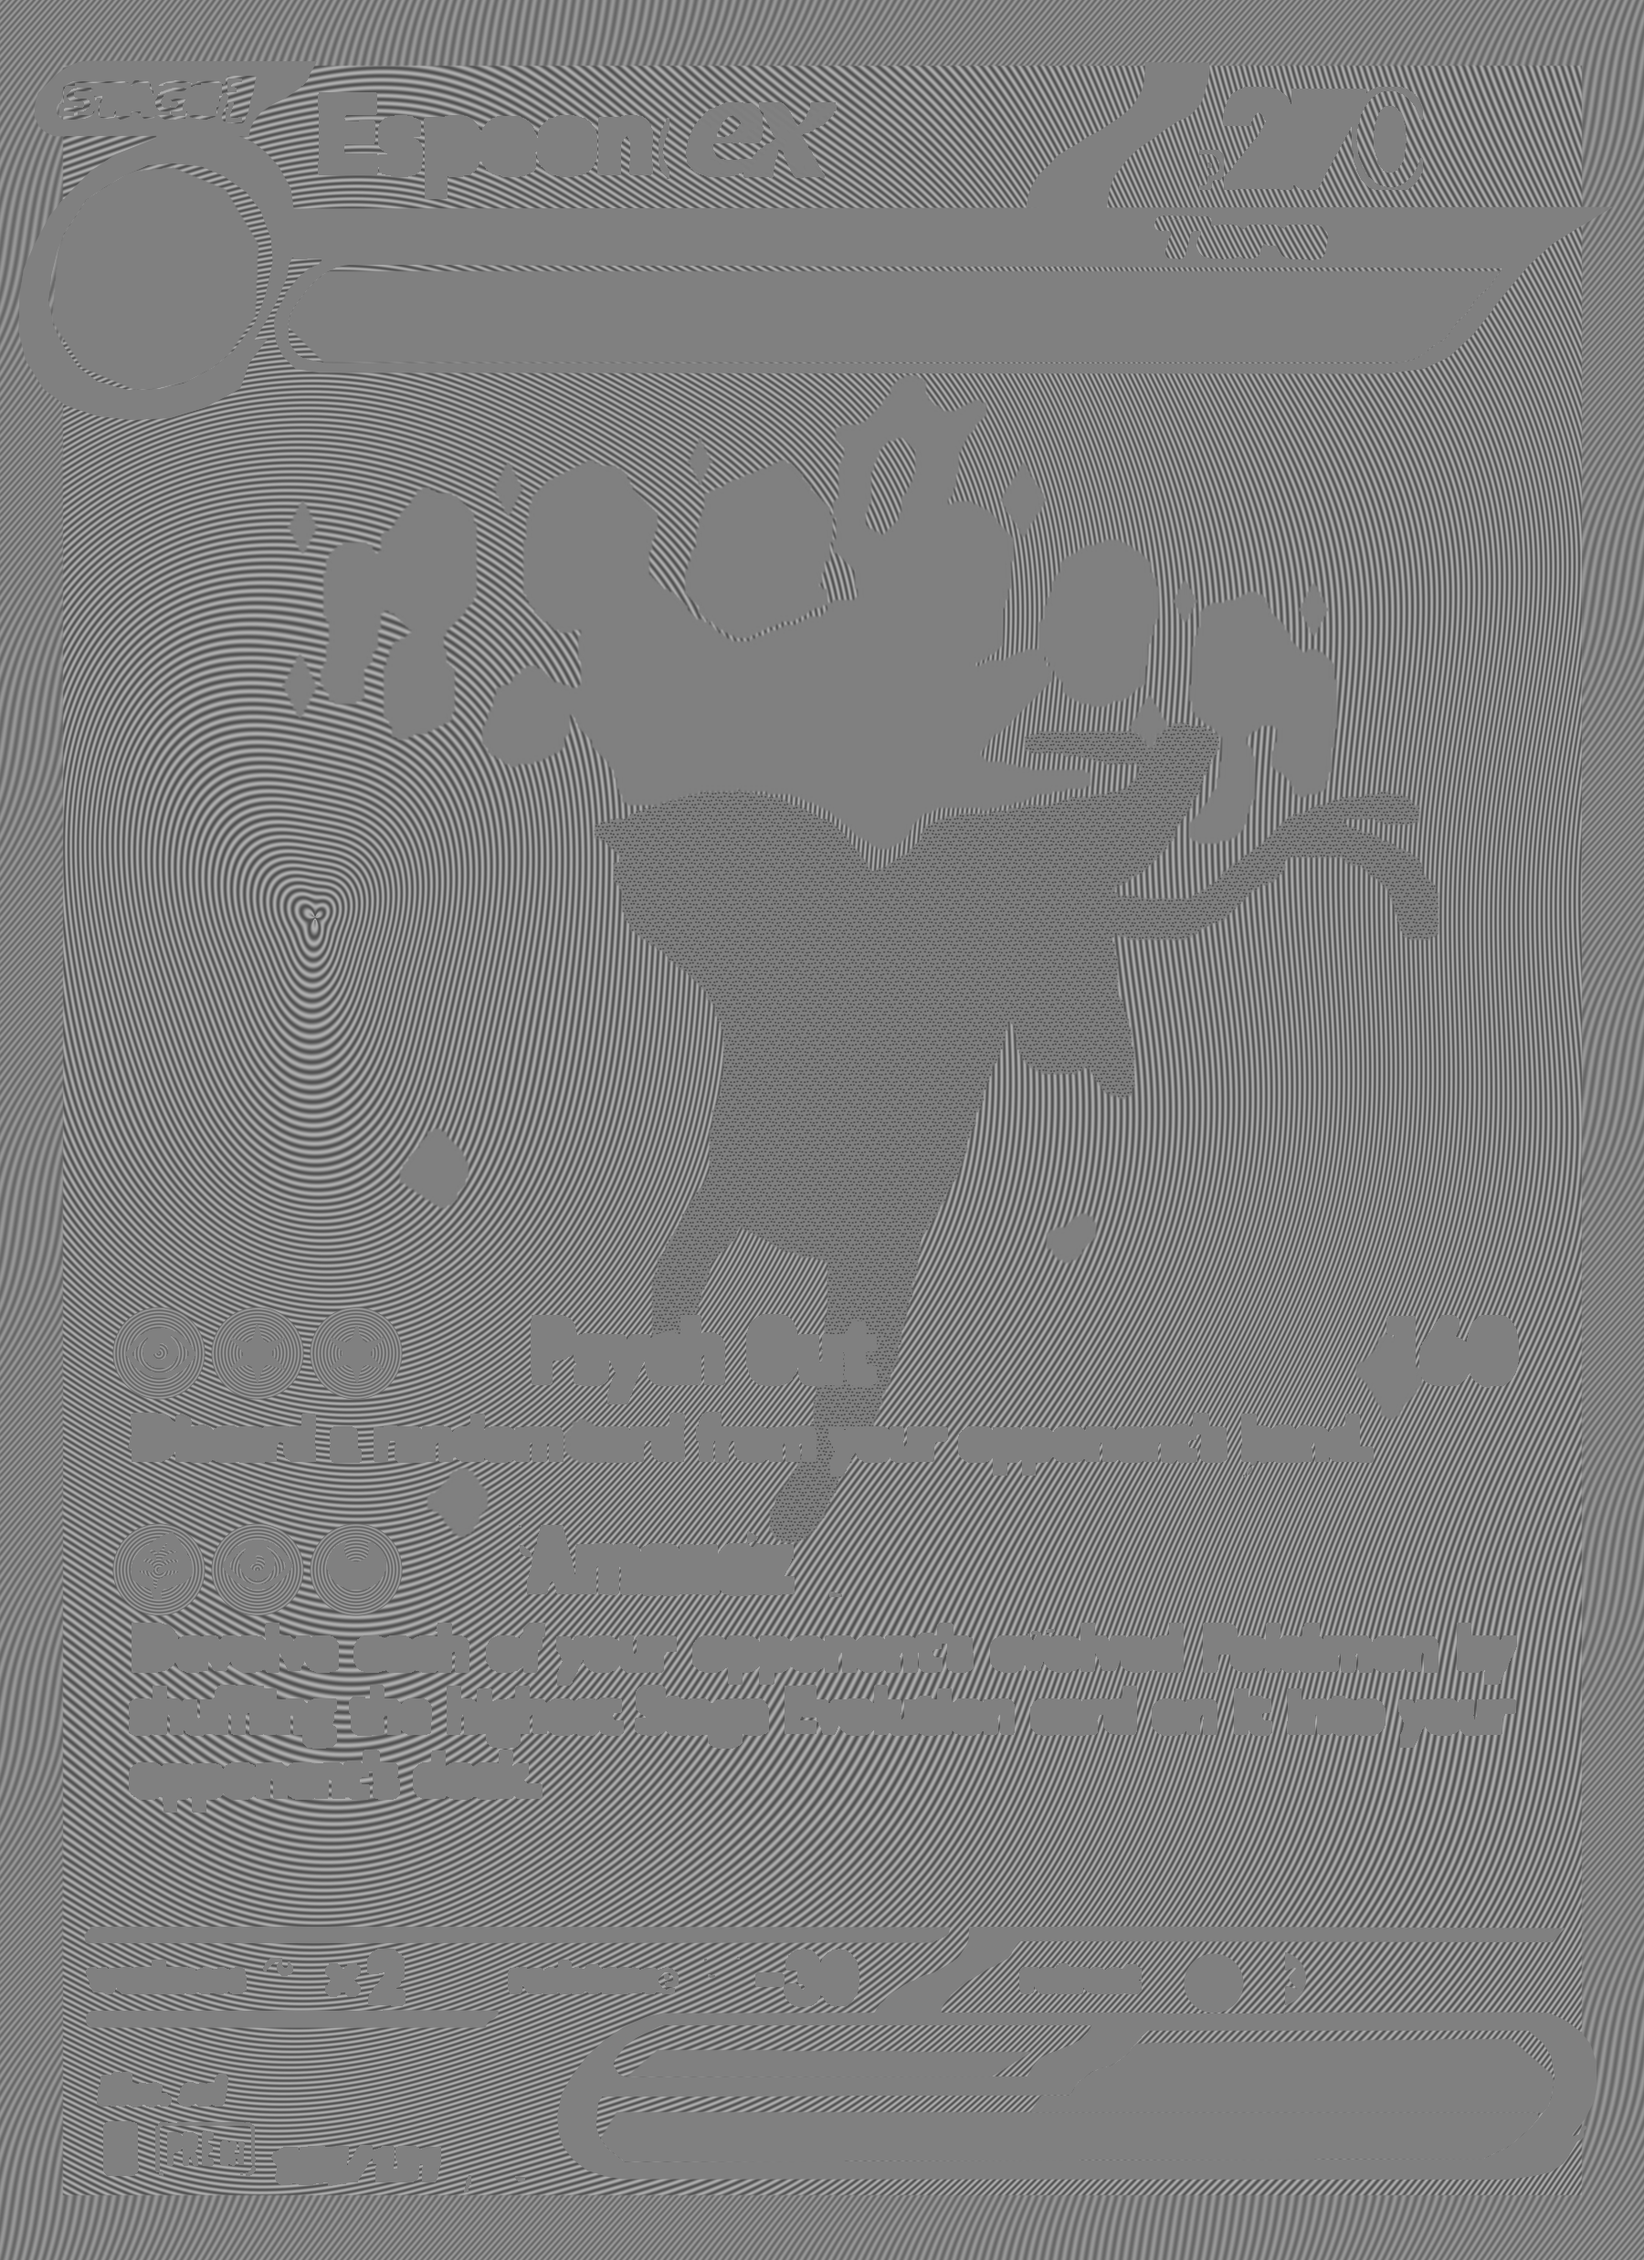
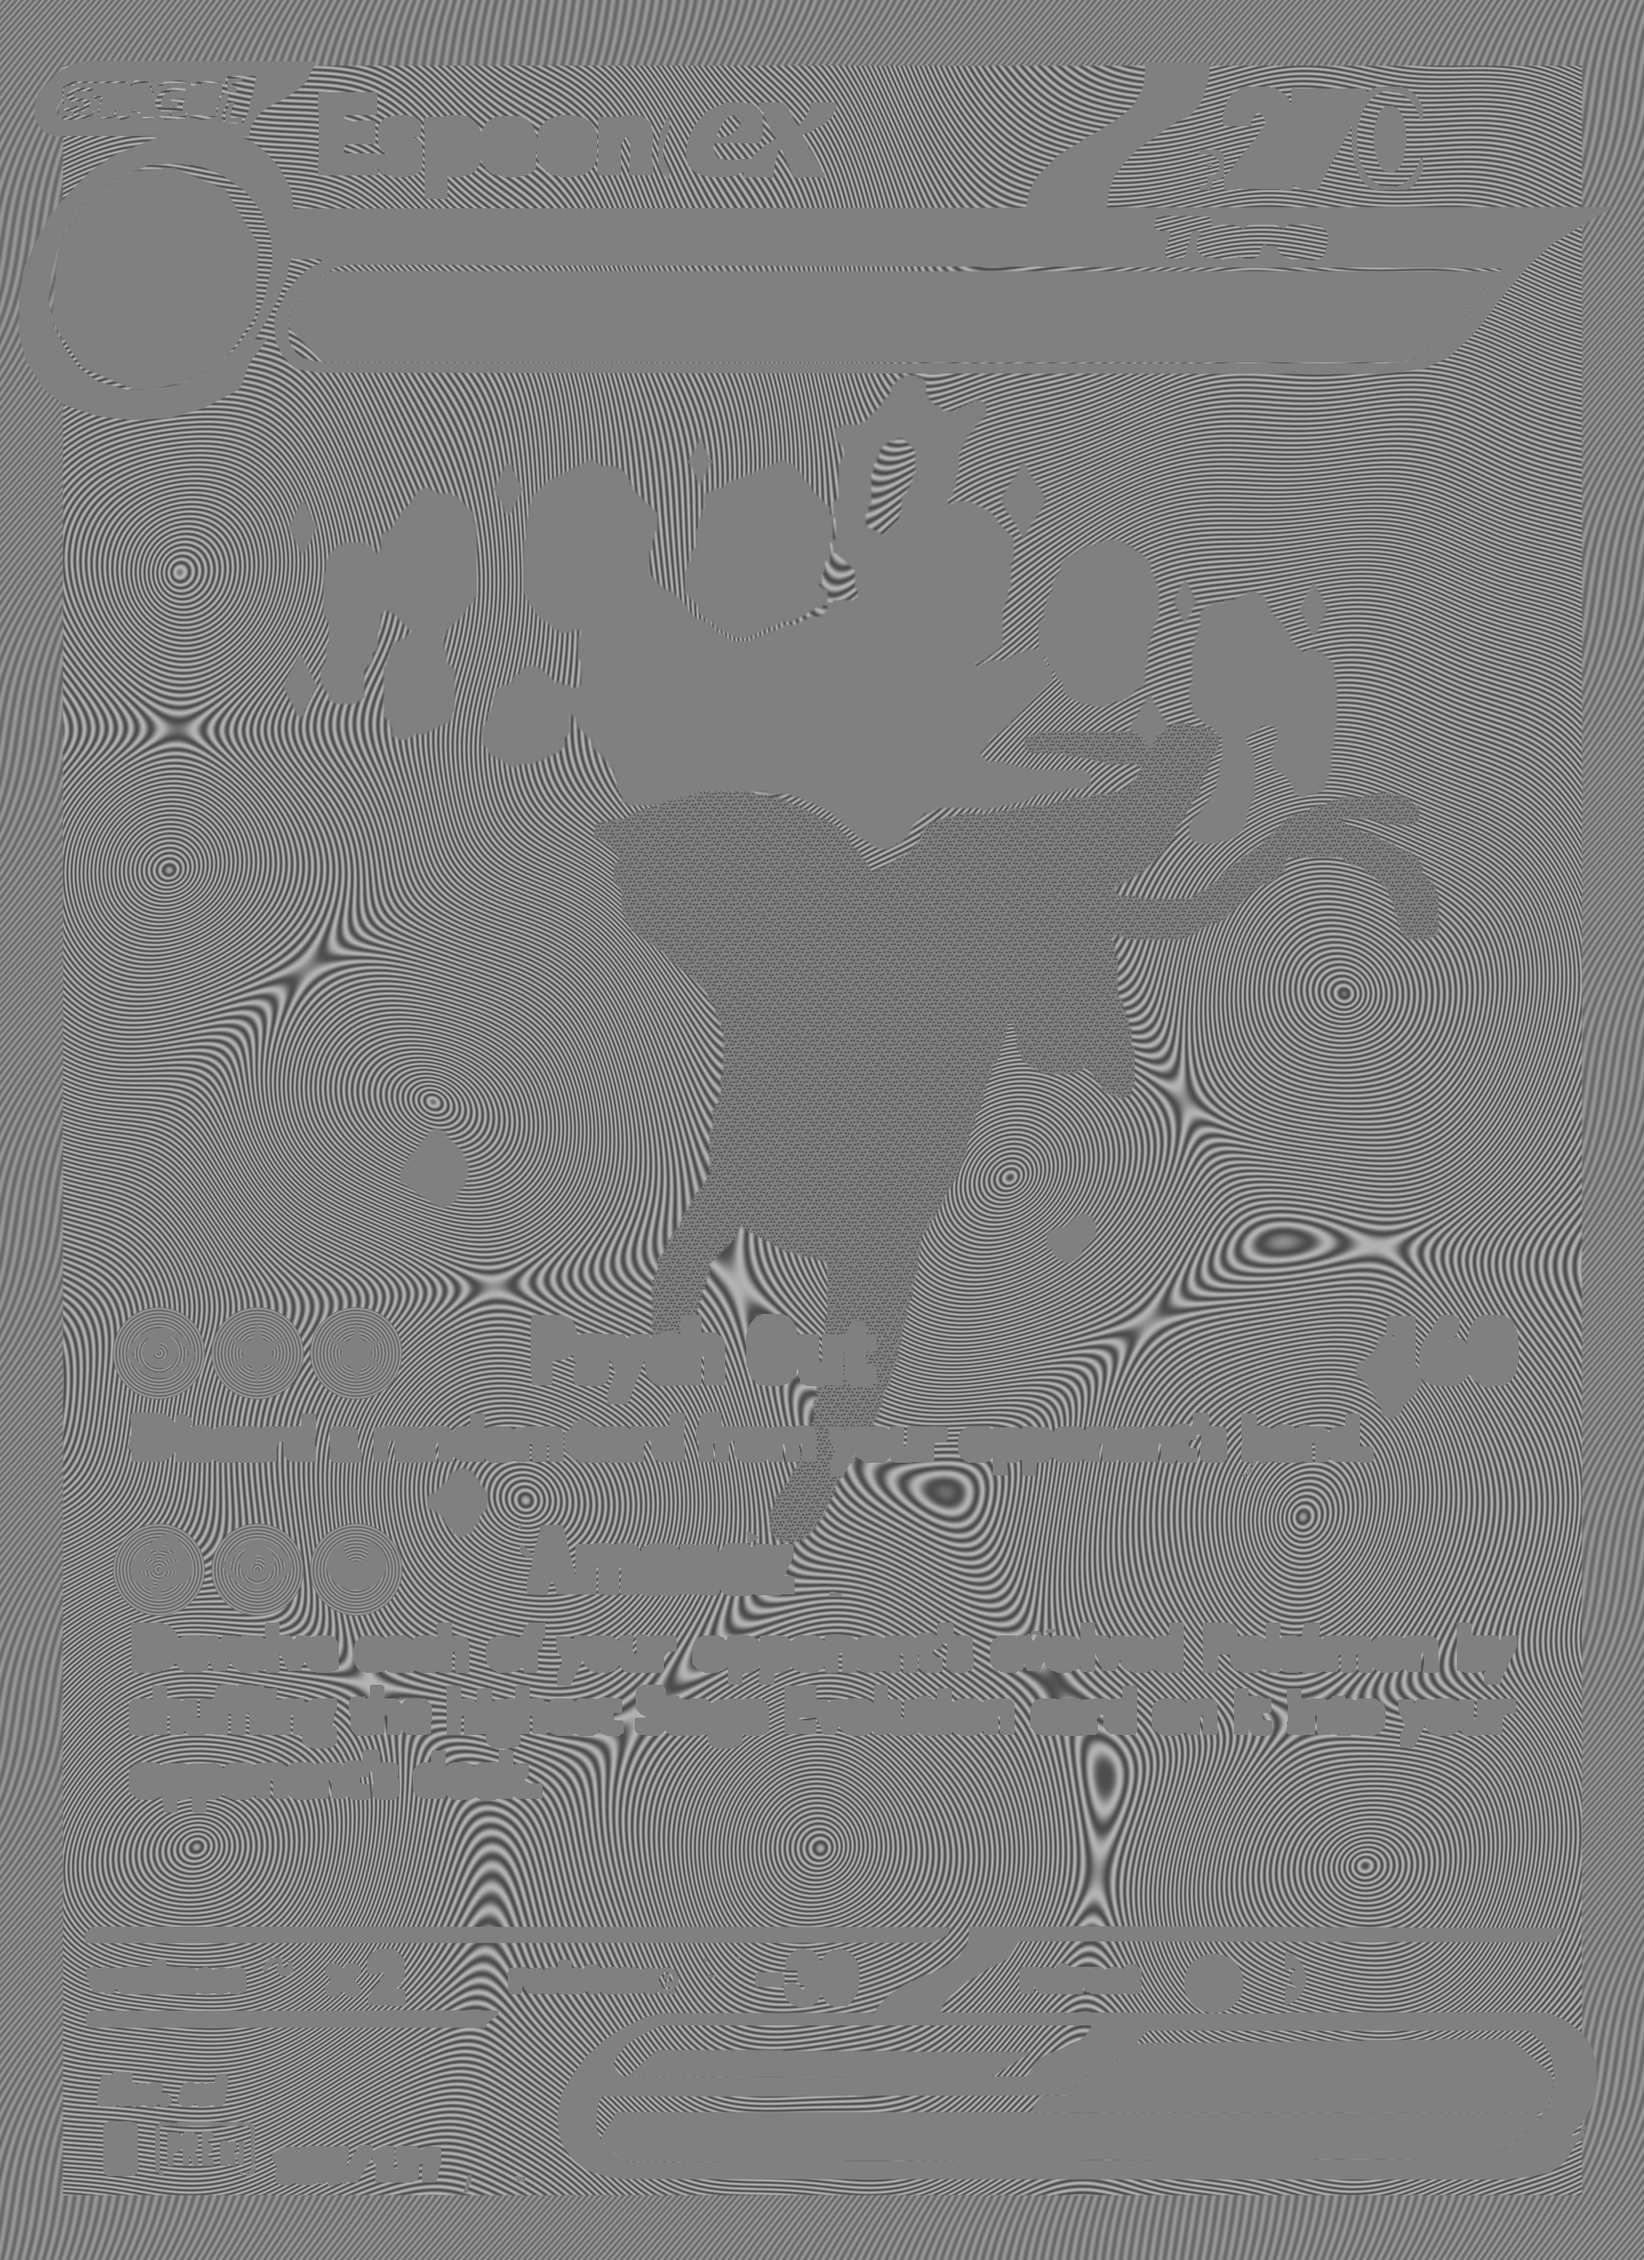
Refine Espeon flowing etching across the full background

diff --git a/scripts/prismatic/espeon_maps.py b/scripts/prismatic/espeon_maps.py
@@ -73,19 +73,28 @@ def build():
     smooth_micro=np.maximum(gems,silver)*(1-protection)*(1-energy)
     secondary=np.maximum(smooth_micro,right)*(1-energy)
     inner=poly([(23,24),(577,24),(577,801),(23,801)])
-    # The reference resolves sweeping nested curves through the left flowers
-    # and lower foliage. A continuous warped radial field models that flow;
-    # exact groove spacing and hidden continuation are estimates.
+    # Photo-guided local contour centers: upper-left flower, foliage beside
+    # the body, lower flowers and bottom-right stones. A smooth distance union
+    # lets contour families flow into saddles rather than overlapping grooves.
+    # Centers, pitch/depth and obscured continuation remain estimates.
     def slope(h):
         gy,gx=np.gradient(h,1/S,1/S); return gx,gy
-    dx=x-115; dy=(y-335)*.78
-    radius=np.sqrt(dx*dx+dy*dy+36)
-    angle=np.arctan2(dy,dx)
-    phase=radius+9*np.sin(angle*3)*np.minimum(radius/80,1)
-    phase+=8*np.sin(y*.025)+5*np.sin(x*.028+y*.011)
-    height=.95*np.sin(phase*2*np.pi/1.9)
+    fields=[]
+    for cx,cy,stretch,turn in [(65,209,.90,.25),(62,318,1.12,-.3),
+      (158,402,1.25,.5),(192,548,.95,-.2),(369,430,1.22,-.55),
+      (491,363,1.05,.4),(475,554,.90,.3),(498,681,1.12,-.3),
+      (300,675,.95,.5),(72,674,1.16,-.5)]:
+        dx=x-cx;dy=y-cy
+        u=dx*np.cos(turn)+dy*np.sin(turn)
+        v=(-dx*np.sin(turn)+dy*np.cos(turn))*stretch
+        fields.append(np.sqrt(u*u+v*v+9))
+    distances=np.stack(fields)
+    nearest=distances.min(0)
+    phase=nearest-13*np.log(np.exp(-(distances-nearest)/13).sum(0))
+    phase+=2.4*np.sin(.075*x+.022*y)+1.6*np.sin(.062*y-.018*x)
+    height=1.05*np.sin(phase*2*np.pi/1.75)
     gx,gy=slope(height)
-    gx*=1.35;gy*=1.35
+    gx*=1.5;gy*=1.5
     field_body=body_texture(x,y)*.50
     edge=.50*np.sin((.52*x+.31*y+7*np.sin(.035*y+.014*x))*2*np.pi/1.35)
     ex,ey=slope(edge); gx=gx*inner+ex*(1-inner); gy=gy*inner+ey*(1-inner)
@@ -120,8 +129,8 @@ def build():
         Image.fromarray(np.uint8(np.clip(overlay,0,1)*255)).resize((900,1238)).save(REVIEW/f'{name}-overlay.png')
     evidence=dict(cardId='sv08.5-155',variant='holo',status='photo-guided-reconstruction',rendererReady=True,textured=True,
       mapSize=[W,H],maps=hashes,references=[dict(file=p.name,sha256=hashlib.sha256(p.read_bytes()).hexdigest()) for p in sorted(REF.iterdir())],
-      referencePolicy='Exact-card etching-master.jpg guides curved floral relief and upper-right diamond coverage. User colored outlines define body and crystals. Supplied energy crops guide concentric icon relief. Clean front supplies registration only; shared silver mask is registered to title and retreat cost.',
-      reliefMethod='Single continuous curved background phase, differentiated before clipping; no superimposed crossing ridge fields. Body and crystal boundaries follow the supplied colored outline; six concentric attack-energy fields are centered on the print.',
+      referencePolicy='Exact-card etching-master.jpg guides curved floral relief and upper-right diamond coverage. User colored outlines define body and crystals. Concentric icon relief follows the established attack-energy treatment. Clean front supplies registration only; shared silver mask is registered to title and retreat cost.',
+      reliefMethod='Local photo-guided flowing contour families joined through a smooth distance field, differentiated before clipping; relief covers both sides of the body and lower-right field. Body and crystal boundaries follow the supplied colored outline; six concentric attack-energy fields are centered on the print.',
       limitations='Incision spacing, depth, hidden line continuation and optical constants are estimates from the supplied views. No brightness or random noise was converted to relief.')
     (OUT/'155-holo-evidence.json').write_text(json.dumps(evidence,indent=2)+'\n')
 

diff --git a/docs/espeon-155.md b/docs/espeon-155.md
@@ -4,6 +4,6 @@ The clean TCGdex front is retained unchanged. The supplied exact-card photo guid
 
 Run `python scripts/prismatic/espeon_cutouts.py`, then `python scripts/prismatic/espeon_maps.py`. All production masks and maps are PNG at 1800 x 2475. The body has a separate shallow dimple texture. Crown and gems use the separate microdiamond material; the forehead under their tips retains the body texture. Six attack-energy discs have concentric grooves with protected symbols.
 
-The continuous curved background field is differentiated before material clipping. It is a photo-guided reconstruction: pitch, depth, the upper-right field transition and hidden line continuation are estimates, not individually traced or measured ridges. No print brightness or photographic noise is converted to height. Reflection follows the authored normals with no extra emboss pass.
+The background now uses connected local contours through the upper-left flowers, both sides of Espeon, lower foliage and bottom-right stones. Smooth distance transitions join the local families without crossing separate groove layers. The continuous field is differentiated before material clipping. It is a photo-guided reconstruction: pitch, depth, the upper-right field transition and hidden line continuation are estimates, not individually traced or measured ridges. No print brightness or photographic noise is converted to height. Reflection follows the authored normals with no extra emboss pass.
 
-Visual review captures under Studio, Strip, Soft and Low key lights, including tilted views, are in `artifacts/espeon-155/review`. Boundary overlays are in `artifacts/espeon-155`. The evidence manifest records all three supplied references and every output hash.
+Visual review captures under Studio, Strip, Soft and Low key lights, including tilted views, are in `artifacts/espeon-155/flow-revision`. Boundary overlays are in `artifacts/espeon-155`. The evidence manifest records all three supplied references and every output hash.
